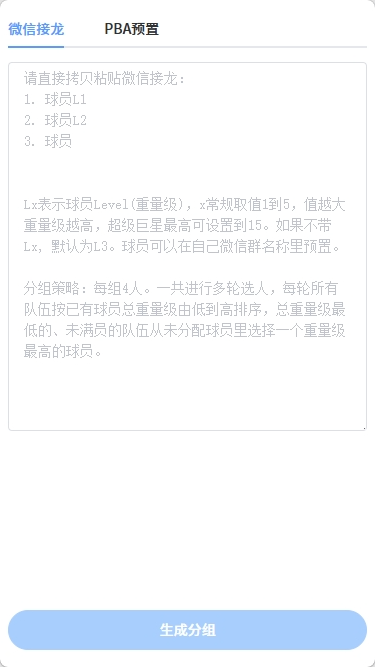
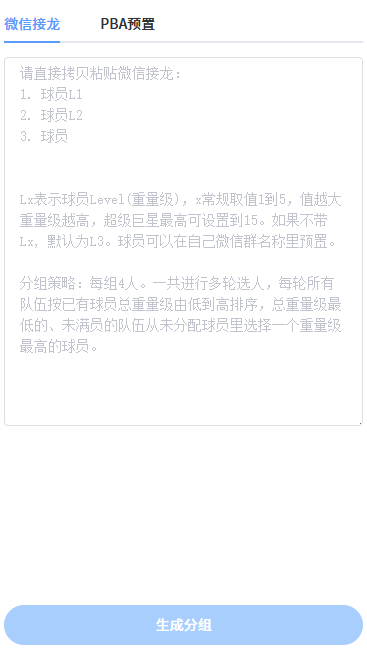
update

diff --git a/README.md b/README.md
@@ -13,7 +13,7 @@
 
 <p align="center">
   <kbd>
-    <img src="assets/teamup-basketball.png" alt="篮球组队系统截图" width="600">
+    <img src="assets/teamup-basketball.png" alt="篮球组队系统截图" width="300">
   </kbd>
 </p>
 
